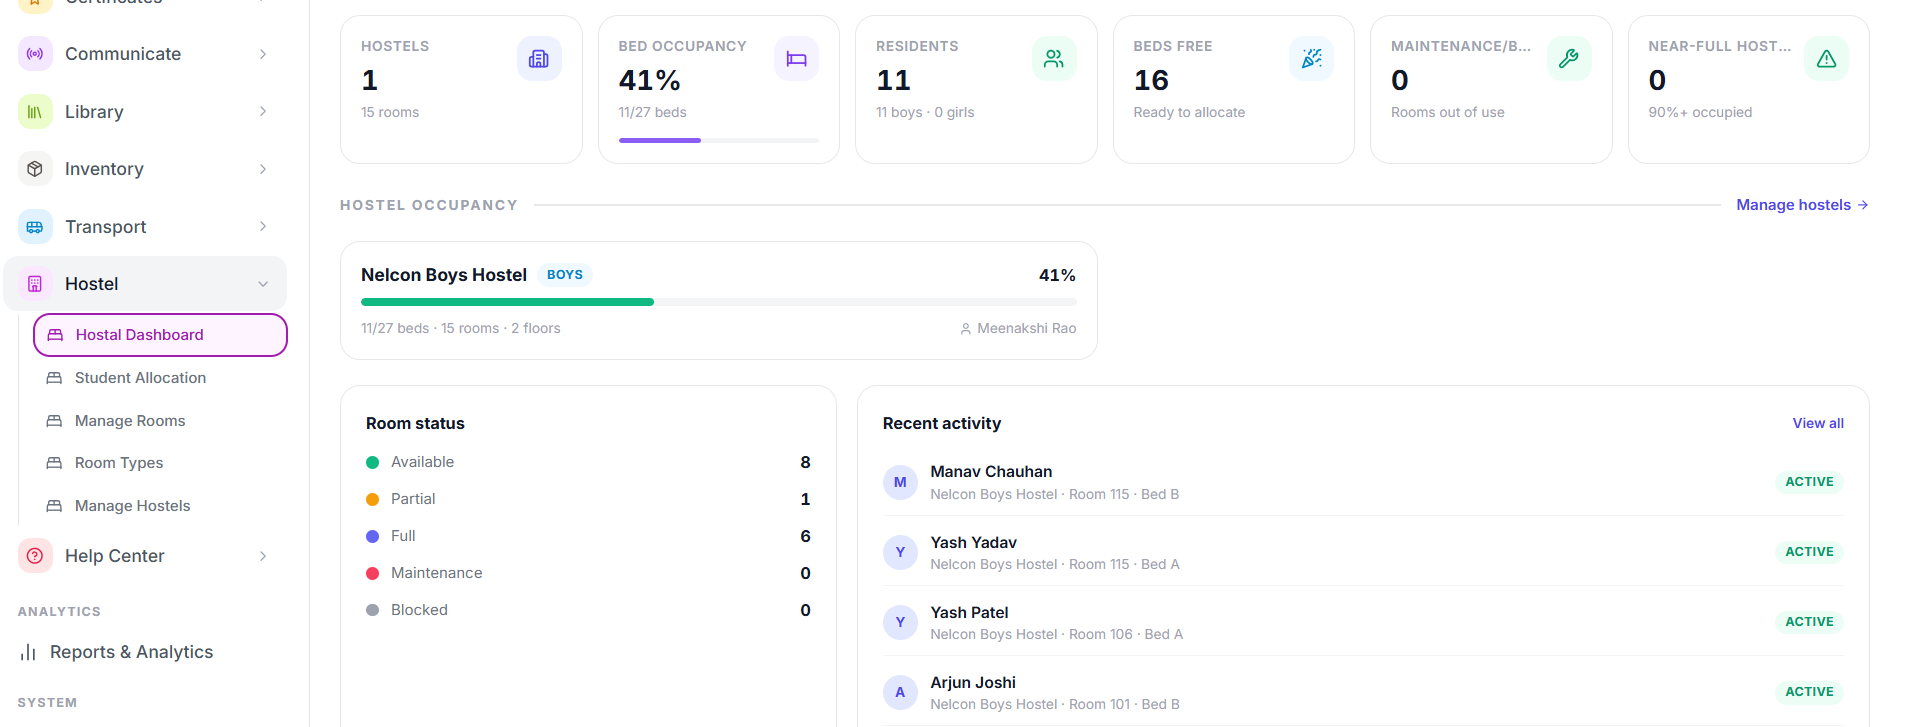
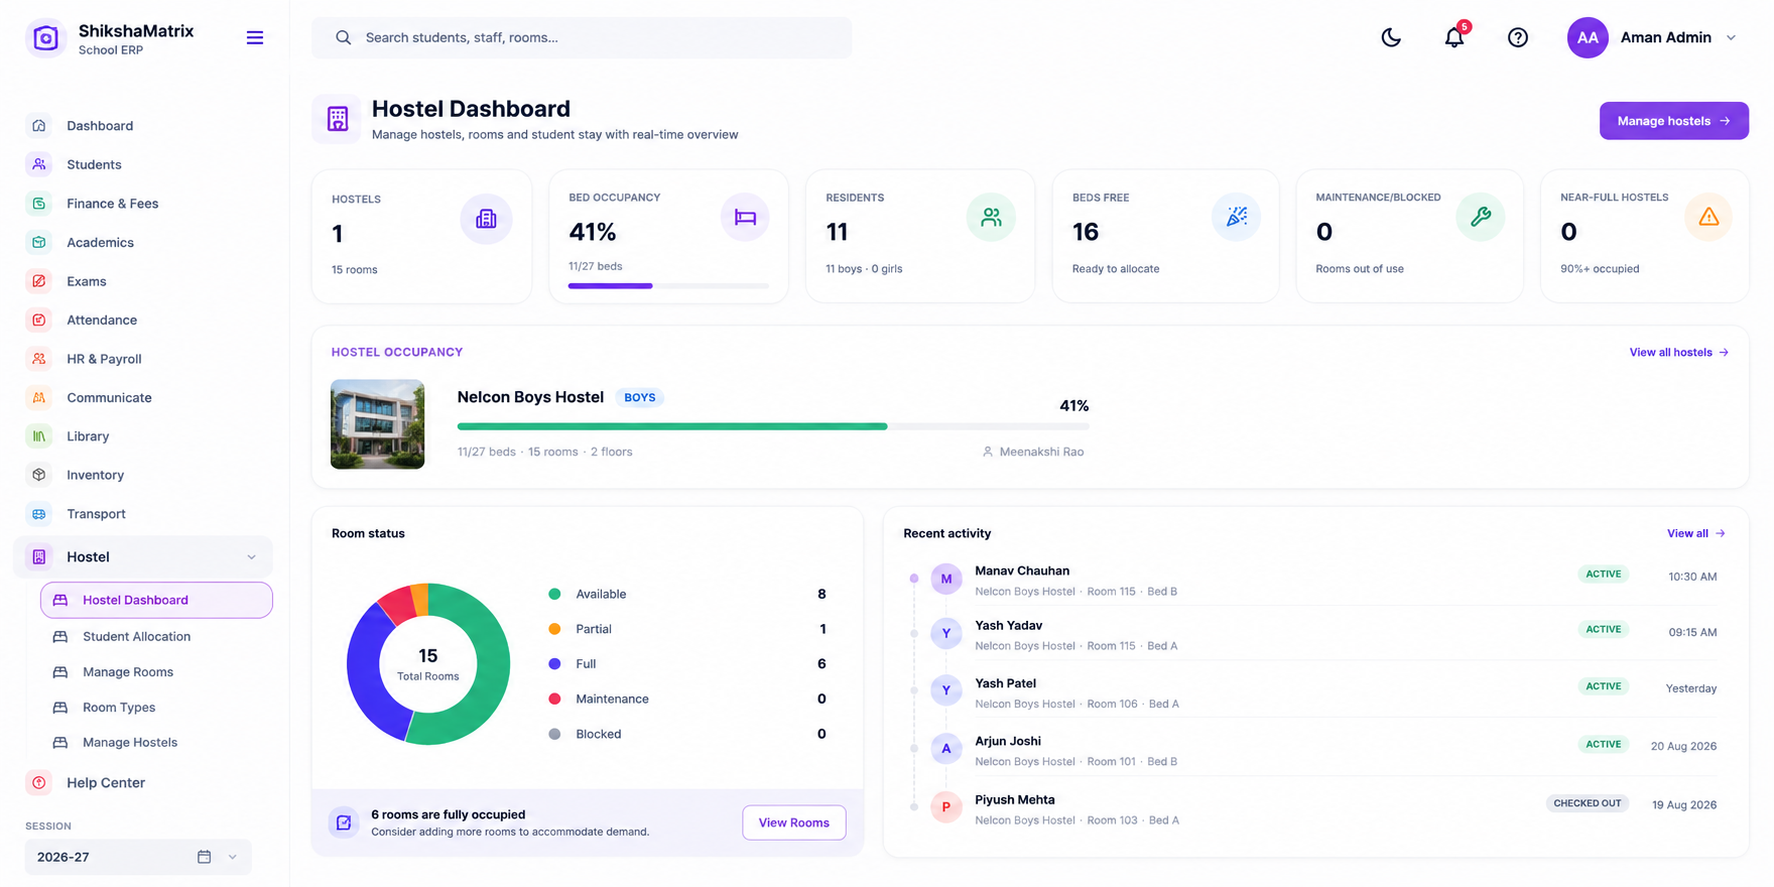
improvements redesign fix

diff --git a/src/app/(website)/_data/hostel.ts b/src/app/(website)/_data/hostel.ts
@@ -27,7 +27,7 @@ export const hostelData: ServiceLandingData = {
       title: "Room & Bed Allocation",
       desc: "Assign hostel rooms and beds to students, tracked against their main student record.",
       slug: "room-bed-allocation",
-      image: "/features/hostel/room-bed-allocation.jpg",
+      image: "/features/hostel/room-bed-allocation.png",
       bullets: [
         "Assign or reassign a bed to any student in a few taps",
         "See room-wise and floor-wise occupancy at a glance",
@@ -39,7 +39,7 @@ export const hostelData: ServiceLandingData = {
       title: "Resident Records",
       desc: "Hostel-specific details connected to the same student profile used across the platform.",
       slug: "resident-records",
-      image: "/features/hostel/resident-records.jpg",
+      image: "/features/hostel/resident-records.png",
       bullets: [
         "Guardian contacts, medical notes, and check-in/out history in one place",
         "Warden can pull up a resident's full profile instantly",
